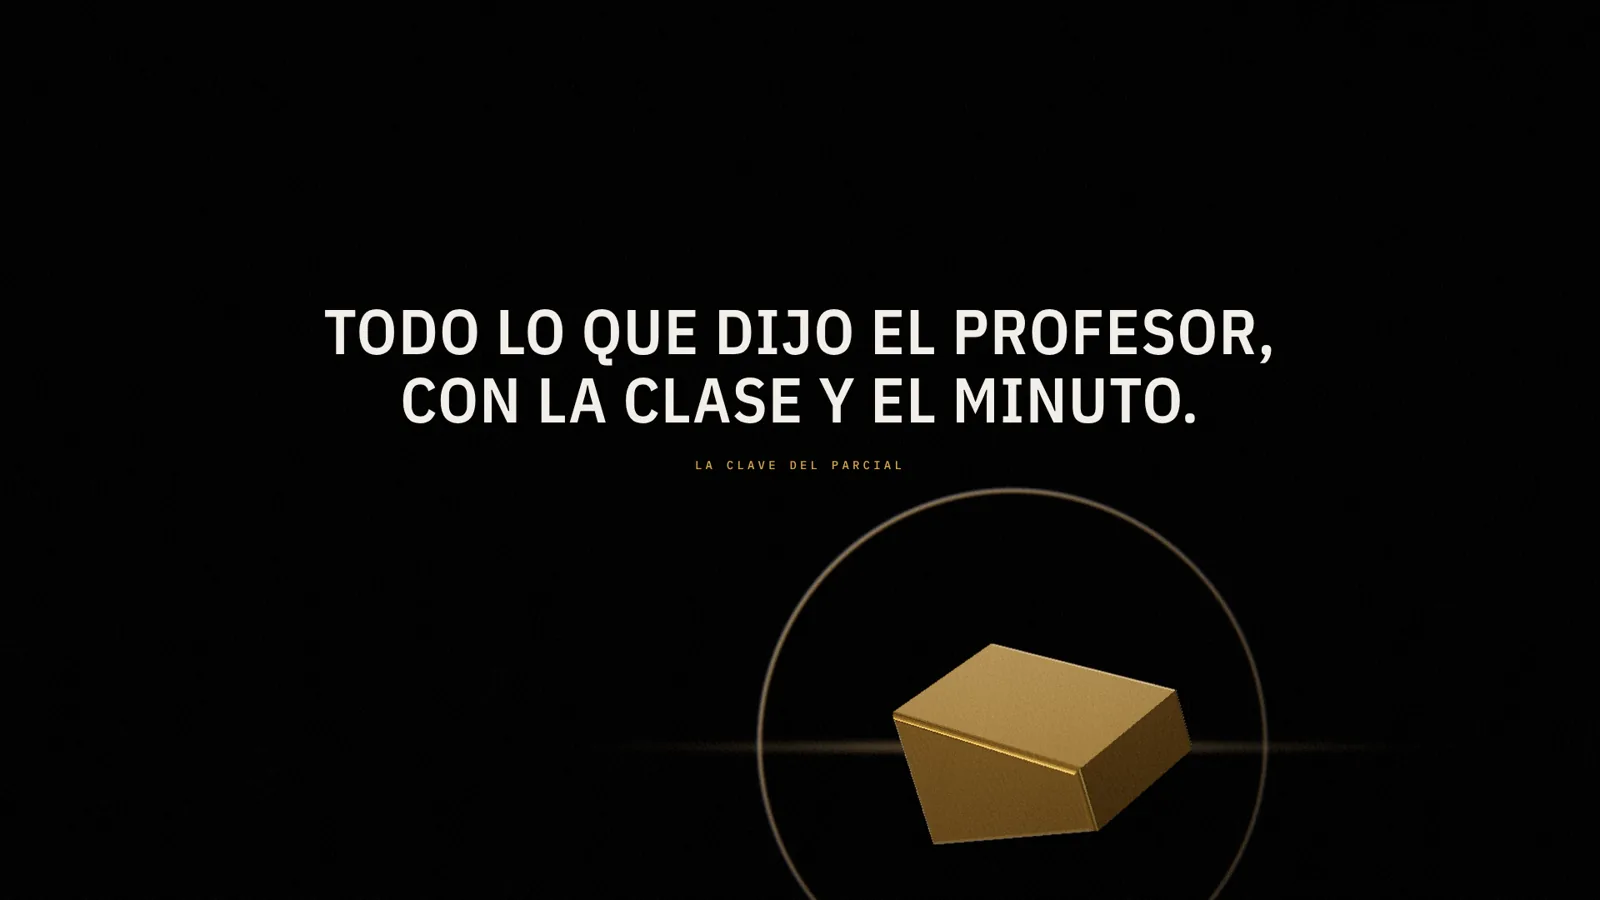
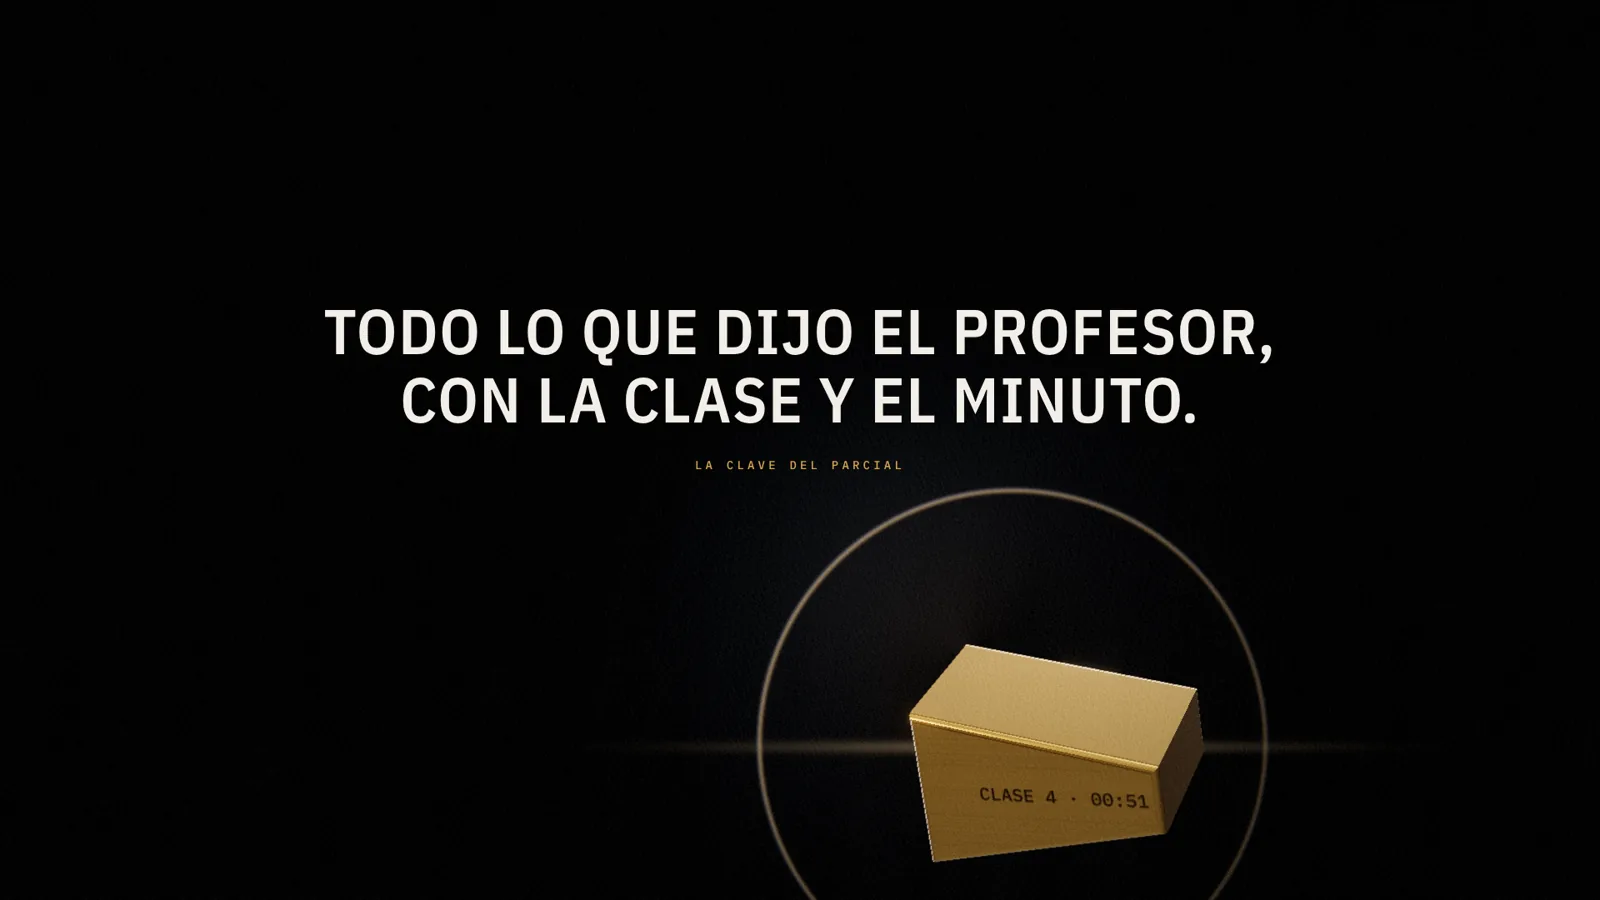
Dirección visual: quinta vuelta, los tres fotogramas pasan

Changed region(s): [[0.5625, 0.7156, 0.75, 0.9644]]

diff --git a/direccion.html b/direccion.html
@@ -45,8 +45,8 @@
     <p class="legal-fecha">6 de octubre de 2026 · cuadros a 1920×1080, dibujo por software (material y luz valen; el ritmo no)</p>
     <p>La nave de la v1 y la v2 se leía como un juego: cientos de piezas con color plano y luz pareja. La dirección nueva sigue lo que tienen en común las referencias: pocos objetos, materiales que parecen fotografía, mucho vacío oscuro y la tipografía como voz. El héroe es la C de dovelas de la marca hecha escultura: mármol negro con barniz y vetas, la clave de oro pulido, luz de estudio, profundidad de campo, grano y viñeta.</p>
     <h2>Puntajes (0 a 10; se publica con promedio ≥ 8 y ningún criterio &lt; 7)</h2>
-    <table><tr><th>Cuadro</th><th>Materiales</th><th>Luz</th><th>Vacío</th><th>Acabado</th><th>Tipografía</th><th>Concepto</th><th>Sin juego</th><th>Marca</th><th>Promedio</th><th>¿Pasa?</th></tr><tr><td>v1 publicada · portada</td><td>2</td><td>3</td><td>2</td><td>3</td><td>6</td><td>4</td><td>2</td><td>6</td><td>3.50</td><td class="no">no</td></tr><tr><td>v2 publicada · portada</td><td>3</td><td>4</td><td>3</td><td>4</td><td>6</td><td>4</td><td>3</td><td>6</td><td>4.12</td><td class="no">no</td></tr><tr><td>Fotograma 1 · portada (4.ª vuelta)</td><td>7.5</td><td>7.5</td><td>8</td><td>8</td><td>8</td><td>8</td><td>8</td><td>9</td><td>8.00</td><td class="si">sí</td></tr><tr><td>Fotograma 2 · la clave (4.ª vuelta)</td><td>7.5</td><td>7.5</td><td>9</td><td>8</td><td>8</td><td>7</td><td>8</td><td>8</td><td>7.88</td><td class="no">no</td></tr><tr><td>Fotograma 3 · la pantalla (4.ª vuelta)</td><td>7</td><td>7</td><td>8</td><td>8</td><td>8</td><td>9</td><td>8</td><td>7</td><td>7.75</td><td class="no">no</td></tr></table>
-    <p>Fotograma 1 pasa. Los fotogramas 2 y 3 todavía no: en el 2 el oro necesita más variación en sus caras y el concepto se apoya demasiado en el texto; en el 3 la pantalla, el marco y la piedra de adelante todavía no tienen la calidad de material del 1. Se siguen trabajando antes de rehacer la página entera.</p>
+    <table><tr><th>Cuadro</th><th>Materiales</th><th>Luz</th><th>Vacío</th><th>Acabado</th><th>Tipografía</th><th>Concepto</th><th>Sin juego</th><th>Marca</th><th>Promedio</th><th>¿Pasa?</th></tr><tr><td>v1 publicada · portada</td><td>2</td><td>3</td><td>2</td><td>3</td><td>6</td><td>4</td><td>2</td><td>6</td><td>3.50</td><td class="no">no</td></tr><tr><td>v2 publicada · portada</td><td>3</td><td>4</td><td>3</td><td>4</td><td>6</td><td>4</td><td>3</td><td>6</td><td>4.12</td><td class="no">no</td></tr><tr><td>Fotograma 1 · portada (4.ª vuelta)</td><td>7.5</td><td>7.5</td><td>8</td><td>8</td><td>8</td><td>8</td><td>8</td><td>9</td><td>8.00</td><td class="si">sí</td></tr><tr><td>Fotograma 2 · la clave (5.ª vuelta)</td><td>8</td><td>7.5</td><td>9</td><td>8</td><td>8</td><td>8.5</td><td>8</td><td>8.5</td><td>8.19</td><td class="si">sí</td></tr><tr><td>Fotograma 3 · la pantalla (5.ª vuelta)</td><td>7.5</td><td>7.5</td><td>8</td><td>8</td><td>8</td><td>9</td><td>8</td><td>8.5</td><td>8.06</td><td class="si">sí</td></tr></table>
+    <p>Los tres pasan. En la quinta vuelta, la clave lleva grabados la clase y el minuto sobre oro cepillado (el objeto cuenta el concepto, no sólo el texto) y una luz blanda detrás recorta su silueta; la pantalla va en un marco del mismo mármol veteado y adelante, fuera de foco, asoma la C con su clave de oro.</p>
 
     <h2>Línea de base: la v1 publicada</h2>
     <figure><img src="direccion/comparar-v1-portada.webp" width="1800" height="609" loading="lazy" alt="A la izquierda, la portada de referencia de Lusion; a la derecha, la portada de la v1 de Cathedra con la nave de piedra."><figcaption>Izquierda: lusion-hero.jpg · derecha: v1 publicada.</figcaption></figure>
